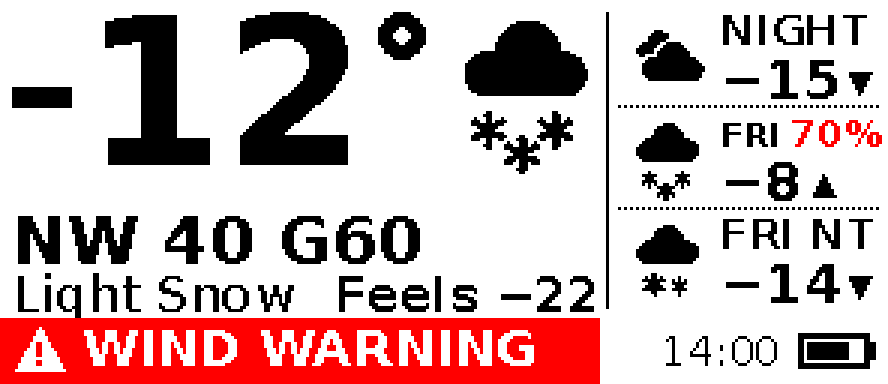
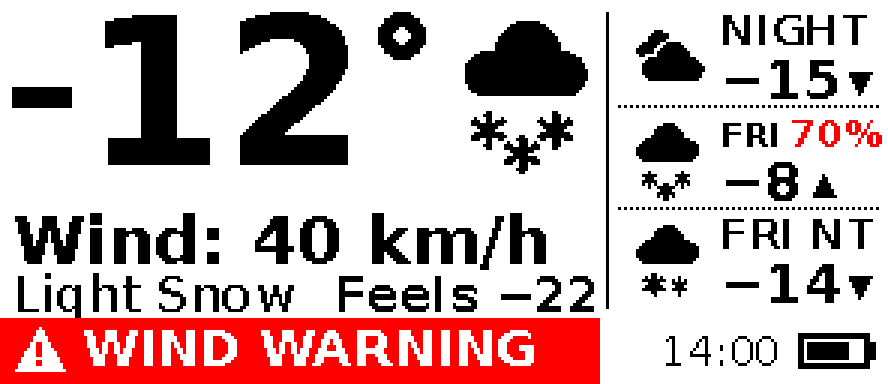
Wind line simplified to 'Wind: N km/h' (no direction/gust)

Changed region(s): [[0.0, 0.5312, 0.6385, 0.7188]]

diff --git a/host/wxd/render.py b/host/wxd/render.py
@@ -54,7 +54,6 @@ class RenderConfig:
     max_periods: int = 3
     pop_notable_pct: int = 40
     pop_red_pct: int = 70
-    gust_red_kph: int = 70
     battery_low_pct: int = 15
     stale_after: timedelta = field(default_factory=lambda: STALE_AFTER)
 
@@ -337,17 +336,13 @@ def _draw_big_temp(ctx: _Ctx, x: int, top: int, max_w: int, temp: float | None, 
     ctx.d.ellipse([rx + th, top + th, rx + ring_d - 1 - th, top + ring_d - 1 - th], fill=WHITE)
 
 
-def _wind_text(cur: Current, cfg: RenderConfig) -> tuple[str, str, bool]:
-    """Returns (main, gust_part, gust_is_red)."""
+def _wind_text(cur: Current) -> str:
+    """Sustained wind only, e.g. 'Wind: 9 km/h' (direction and gusts intentionally omitted)."""
     if cur.wind_kph is None:
-        return "Wind --", "", False
-    if cur.wind_kph == 0 and not cur.wind_gust_kph:
-        return "Calm", "", False
-    main = f"{cur.wind_dir + ' ' if cur.wind_dir else ''}{cur.wind_kph}"
-    g = cur.wind_gust_kph
-    if g and g > cur.wind_kph:
-        return main, f" G{g}", g >= cfg.gust_red_kph
-    return main, "", False
+        return "Wind: --"
+    if cur.wind_kph == 0:
+        return "Wind: Calm"
+    return f"Wind: {cur.wind_kph} km/h"
 
 
 def _draw_triangle(ctx: _Ctx, x: int, y: int, w: int, up: bool, fill: int = BLACK) -> None:
@@ -483,14 +478,7 @@ def render(
     _draw_big_temp(ctx, 4, 4, icon_x - 6, cur.temp_c)
 
     # wind row
-    main, gust, gust_red = _wind_text(cur, cfg)
-    wf = _font(cfg.font_bold, 22)
-    avail = left_w - 4
-    if wf.getlength(main + gust) > avail:
-        wf = _font(cfg.font_bold, 18)
-    w = ctx.text(4, 88, main, wf)
-    if gust:
-        ctx.text(4 + w, 88, gust, wf, RED if gust_red else BLACK)
+    ctx.fit_text(4, 88, _wind_text(cur), True, left_w - 4, 22, 16)
 
     # condition + feels row
     feels = cur.feels_like_c

diff --git a/docs/layout.md b/docs/layout.md
@@ -12,7 +12,7 @@ Renderer: `host/wxd/render.py`. Previews: `python -m wxd.render` (writes `host/o
 |---|---|---|
 | Temperature | x 4.., y 4..64 | DejaVu Sans Bold, auto-shrunk (max digit height 60 px, about 13.6 mm). Minus bar and degree ring are drawn, not glyphs. |
 | Current icon | x 202..258, y 2..58 | 56 px procedural icon |
-| Wind | baseline y 88 | Bold 22 px (cap about 16 px, 3.7 mm), e.g. `NW 40 G60`. Falls to 18 px if too wide. |
+| Wind | baseline y 88 | Bold 22 px (cap about 16 px, 3.7 mm): sustained speed only, `Wind: 9 km/h` (`Wind: Calm`, `Wind: --`). Direction and gusts are deliberately omitted (user preference, 2026-11-05). Shrinks to 16 px if too wide; `Wind: 100 km/h` fits at 22 px. |
 | Condition | baseline y 104, x 4.. | Regular 17 px, shrinks to 13 px, then ellipsis |
 | Feels-like | baseline y 104, right-aligned to x 200 | Bold 16 px |
 | Forecast column | x 206..296, 3 rows of 34 px, divider at x 202 | 28 px icon, name bold 14 px (shrinks to 10), temp bold 18 px with triangle (up = high, down = low), POP in bold 13 px on the name line when >= 40 % |
@@ -20,7 +20,7 @@ Renderer: `host/wxd/render.py`. Previews: `python -m wxd.render` (writes `host/o
 
 ## Color rules
 
-Red is used only for: warning banner (solid red, white text), watch/advisory/statement banner (red outline, red text), gusts >= 70 km/h, POP >= 70 %, feels-like <= -30 or >= 35, low battery (<= 15 % or device low flag). Everything else is black on white. There is no grey or dithering. Text is drawn with anti-aliasing off. Icons are drawn 4x supersampled and thresholded.
+Red is used only for: warning banner (solid red, white text), watch/advisory/statement banner (red outline, red text), POP >= 70 %, feels-like <= -30 or >= 35, low battery (<= 15 % or device low flag). Everything else is black on white. There is no grey or dithering. Text is drawn with anti-aliasing off. Icons are drawn 4x supersampled and thresholded.
 
 ## Readability rationale
 

diff --git a/docs/PLAN.md b/docs/PLAN.md
@@ -46,7 +46,7 @@ Pixel pitch ≈ 0.227 mm (active area ≈ 67 x 29 mm). Text < 14 px is not reada
 │ ▲ WIND WARNING (red banner, only when an alert is active)  14:00│
 └────────────────────────────────────────────────────────────────┘
 ```
-Red is used for: active warnings, the low-battery icon, and optionally high-impact values (gusts ≥ 70 km/h, POP ≥ 70 %). Final layout is owned by `host/wxd/render.py`; previews committed to `docs/img/`.
+Red is used for: active warnings, the low-battery icon, and optionally high-impact values (POP ≥ 70 %; the gust highlight was dropped when the wind line was simplified to `Wind: N km/h`). Final layout is owned by `host/wxd/render.py`; previews committed to `docs/img/`.
 
 ## 3. Power budget (target ≥ 6 months on a 1000 mAh LiPo)
 
